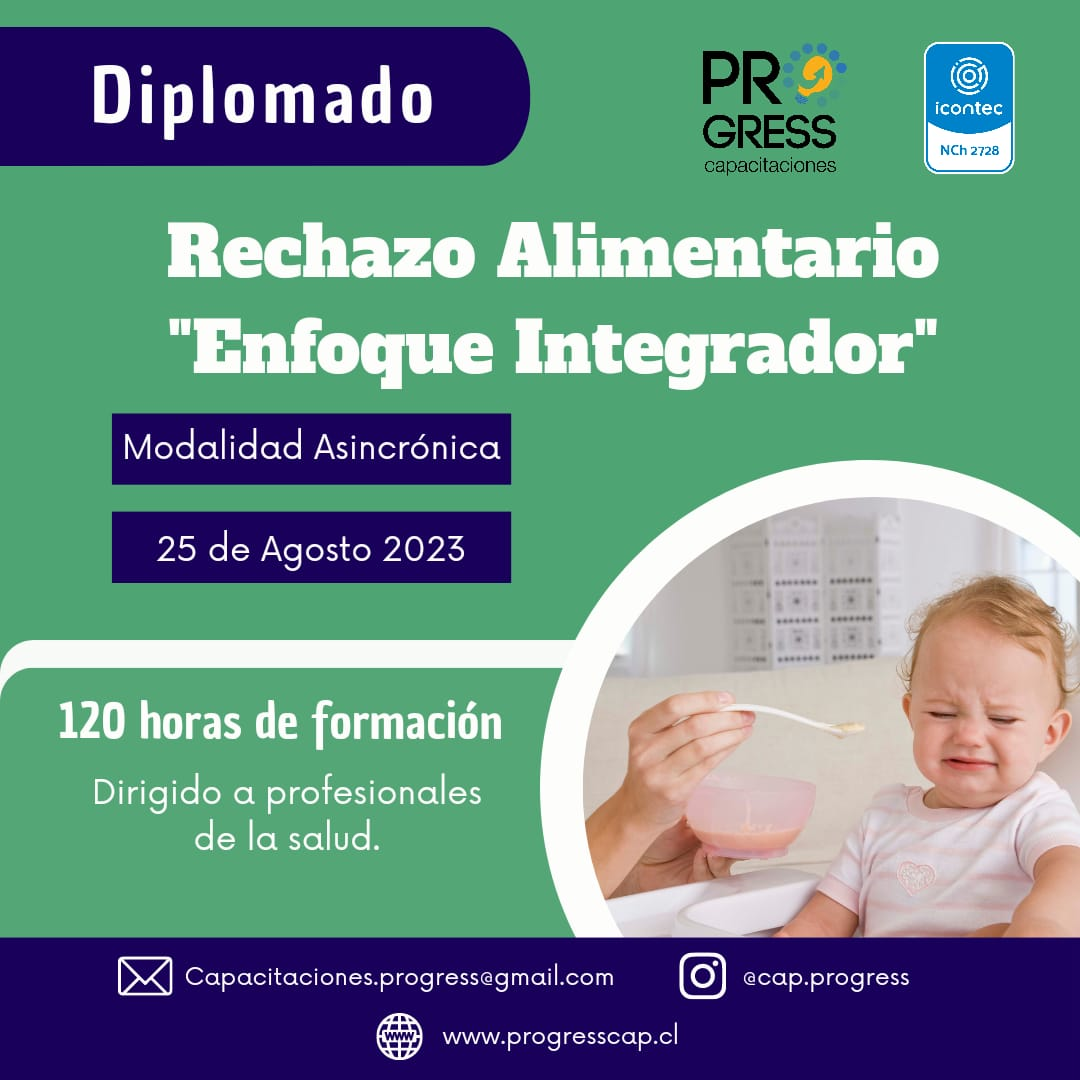
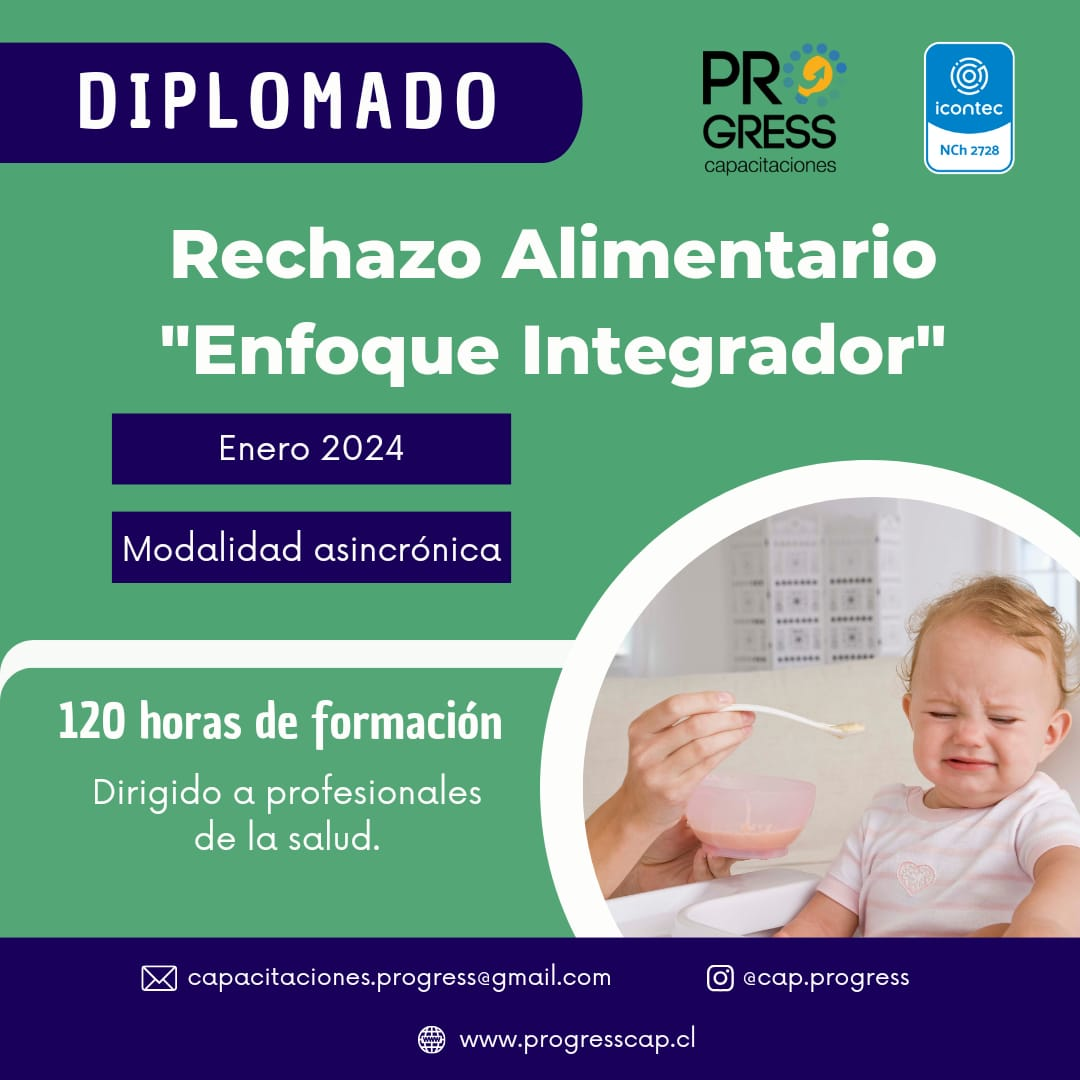
actualización RA

diff --git a/src/html/cursos/ra.html b/src/html/cursos/ra.html
@@ -17,7 +17,7 @@
         <a
           target="_blank"
           rel="noopener noreferrer nofollow"
-          href="https://drive.google.com/file/d/1csuPnSrOk5HgoTTgBxpLJgSCWU1-K9Tk/view"
+          href="https://drive.google.com/file/d/1kkk4ZFH0DAbEn-ZkMwzNDZzJpUtpehsS/view"
         >
           <div class="d-flex align-items-center justify-content-center h-100">
             <div
@@ -104,7 +104,7 @@
         class="btn btn-lg btn-outline-info mt-auto mb-2"
         target="_blank"
         rel="noopener noreferrer nofollow"
-        href="https://drive.google.com/file/d/1csuPnSrOk5HgoTTgBxpLJgSCWU1-K9Tk/view"
+        href="https://drive.google.com/file/d/1kkk4ZFH0DAbEn-ZkMwzNDZzJpUtpehsS/view"
         ><em class="fas fa-plus fa-lg me-2"></em>información</a
       >
 
@@ -143,7 +143,8 @@
                 <div class="card border border-dark text-center me-3">
                   <div class="card-header">Plan Individual</div>
                   <div class="card-body">
-                    <h5 class="card-title">$266.000 clp por persona</h5>
+                    <h5 class="card-title text-decoration-line-through">Antes: $350.000</h5>
+                    <h5 class="card-title">Promo: $280.000 clp por persona</h5>
                     <script src="https://www.mercadopago.cl/integrations/v1/web-payment-checkout.js"
 data-preference-id="708921149-f6a6f25b-3841-47c2-959f-5668e58a0d88" data-source="button">
 </script>

diff --git a/index.php b/index.php
@@ -115,11 +115,11 @@ header('Accept-Encoding: gzip, compress, br');
                             <div class="tab-pane fade show active" id="ex1-tabs-1" role="tabpanel" aria-labelledby="ex1-tab-1">
 
                                 <div class="row g-4">
-                                <?php include_once("src/html/cursos/autismo.html"); ?>
+                                    <?php include_once("src/html/cursos/ra.html"); ?>
+
+                                    <?php include_once("src/html/cursos/autismo.html"); ?>
 
                                     <?php include_once("src/html/cursos/frenillo_lingual.html"); ?>
-
-                                    <?php include_once("src/html/cursos/ra.html"); ?>
 
                                     <?php include_once("src/html/cursos/fono_pie.html"); ?>
 
